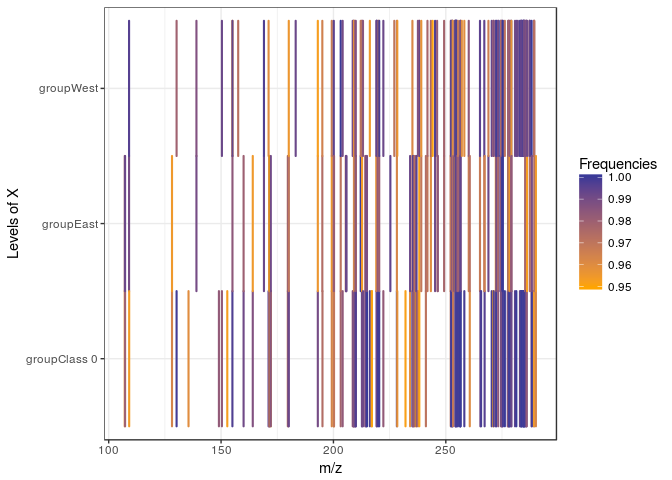
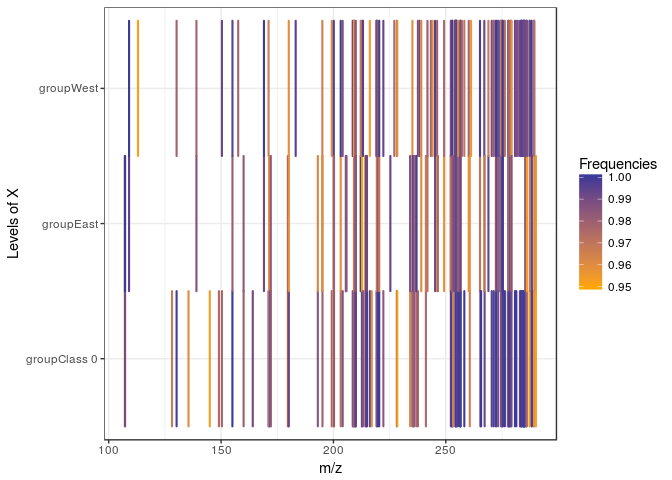
readme_md

diff --git a/README.md b/README.md
@@ -66,7 +66,7 @@ We then generate a sparse matrix *B* of coefficients and a matrix of covariables
 s  <- round(sparsity*p*q) 
 ij <- arrayInd(sample(1:(p*q), size = s), c(p,q))
 B <- sparseMatrix(i = ij[, 1], j = ij[, 2],
-                   x = runif(s) * sample(c(-1,1),s,rep=T),
+                   x = runif(s, 1, 2) * sample(c(-1,1),s,rep=T),
                    dims = c(p,q))
 
 X <- matrix(rnorm(n*p),n,p)
@@ -100,9 +100,9 @@ result
 ```
 
     ##          Pvalue    Decision
-    ## AR1       0.652 WHITE NOISE
-    ## ARMA 1 1  0.576 WHITE NOISE
-    ## nonparam  0.911 WHITE NOISE
+    ## AR1       0.509 WHITE NOISE
+    ## ARMA 1 1  0.507 WHITE NOISE
+    ## nonparam  0.937 WHITE NOISE
 
 We then select the simplest model that allows us to remove the dependence in the data, in that case the *A**R*(1) modelling. We compute the square root of the inverse of the estimator of the covariance matrix of each row of the residuals matrix using the *A**R*(1) modelling as follows:
 
@@ -133,7 +133,7 @@ p
 
 ![](README_files/figure-markdown_github/unnamed-chunk-9-1.png)
 
-If we take a threshold of 0.95, meaning that we keep as non null values only the ones that are considered as non null in more than 95% of the times we have a True Positive Rate equal to 0.2 and a False Positive Rate equal to 0.
+If we take a threshold of 0.95, meaning that we keep as non null values only the ones that are considered as non null in more than 95% of the times we have a True Positive Rate equal to 1 and a False Positive Rate equal to 0.
 
 An exemple in metabolomics
 --------------------------
@@ -184,9 +184,6 @@ In this application, the design matrix *X* is the design matrix of a one-way ANO
 ``` r
 Frequencies <- variable_selection(Y = Y, group = group, nb_repli = 100, typeDep = 'ARMA', pAR = 1, qMA = 1)
 ```
-
-    ## Warning in arima(x, order = c(pAR, 0, qMA)): possible convergence problem:
-    ## optim gave code = 1
 
 The following plot displays the frequencies at which each coefficient of *B* is considered as being non null which corresponds to the features (m/z values) characterizing the different levels.
 
